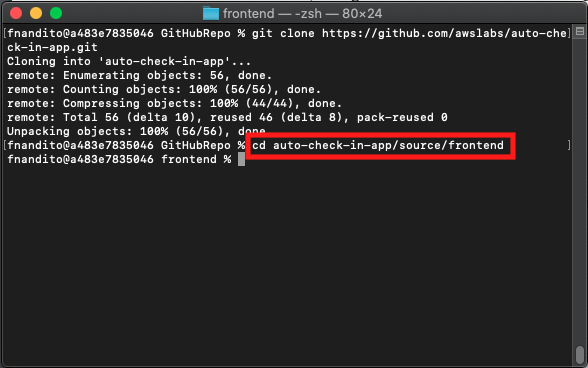
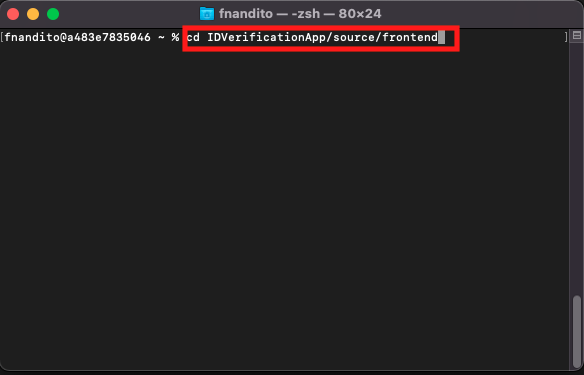
Modify Upload Image and Configure app guidance

Changed region(s): [[0.0, 0.0, 1.0, 1.0]]

diff --git a/docs/Eng/ConfigureApp.md b/docs/Eng/ConfigureApp.md
@@ -3,18 +3,18 @@
 1. On your computer, run the following command in your preferred directory to clone the application source code from GitHub
 
 ```
-git clone https://github.com/awslabs/auto-check-in-app.git
+git clone https://github.com/awslabs/auto-check-in-app.git IDVerificationApp
 ```
 
-2. open the folder `auto-check-in-app` using your favourite text editor. In this demo, I use Visual Studio Code
-3. After the code is cloned, navigate to the `auto-check-in-app/source/frontend` directory on your terminal. You might use this command `cd auto-check-in-app/source/frontend`
+2. open the folder `IDVerificationApp` using your favourite text editor. In this demo, I use Visual Studio Code
+3. After the code is cloned, navigate to the `IDVerificationApp/source/frontend` directory on your terminal. You might use this command `cd IDVerificationApp/source/frontend`
 
     ![](../../images/ConfigureApp/3.png)
 
 4. Run the following command `chmod +x register-operator.sh`
 5. open `register-operator.sh` file
 6. edit the `REGION` to `us-east-1`
-7. edit the `stack name` to `AutoCheckInAppStack` and save the file
+7. edit the `stack name` to `IDVerificationStack` and save the file
 
     ![](../../images/ConfigureApp/7.png)
 

diff --git a/docs/Eng/UploadImageS3.md b/docs/Eng/UploadImageS3.md
@@ -1,7 +1,7 @@
 ## Upload Registration Image to Amazon S3
 
 1. Open [AWS S3 Console](https://s3.console.aws.amazon.com/s3/home?region=us-east-1#)
-2. click the bucket named `auto-check-in-app-register...`
+2. click the bucket named `id-verification-register...`
     ![](../../images/UploadImageS3/2.png)
 3. In bucket page, click `Upload`
 4. to upload page, you can drag and drop the image, or you can also click `Add files` to upload image. Make sure it's on `.jpg` format
@@ -9,7 +9,7 @@
     ![](../..images/UploadImageS3/5.png)
 6. once uploaded, click `close`
     ![](../../images/UploadImageS3/6.png)
-7. if the upload is correct, you won't see your image on the bucket.
+7. if the upload is correct, you can see the S3 bucket page just like this example below.
     ![](../../images/UploadImageS3/7.png)
 
 [BACK TO WORKSHOP GUIDE :house:](../../EnglishGuide.md)
